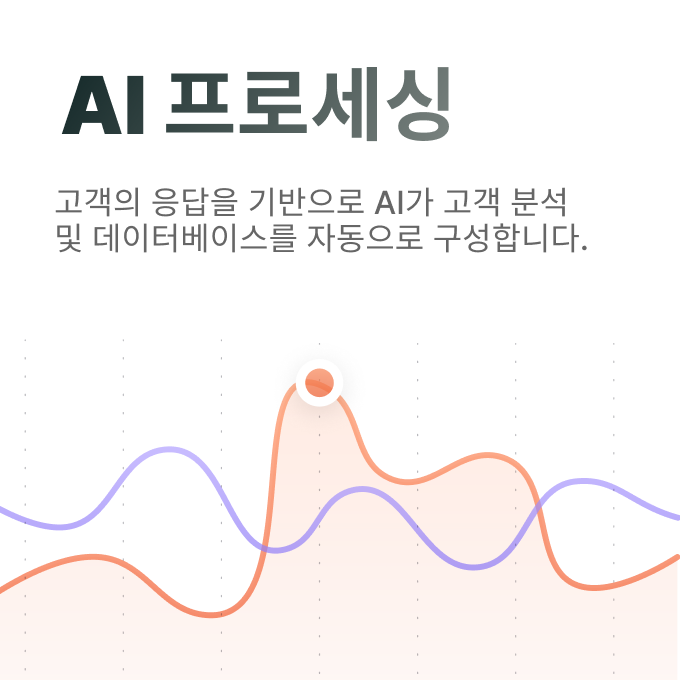
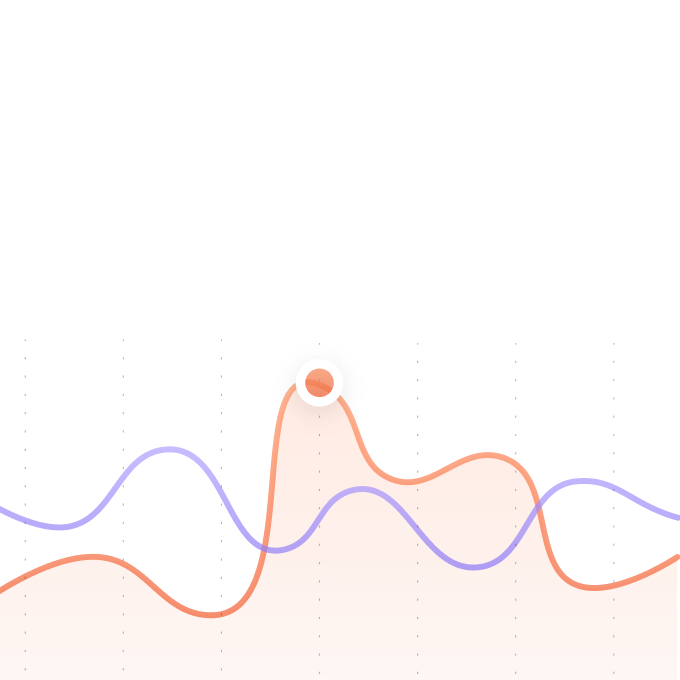
.

Changed region(s): [[0.0618, 0.2779, 0.8647, 0.3706], [0.2471, 0.0926, 0.6794, 0.2162], [0.0926, 0.0926, 0.2162, 0.2162]]

diff --git a/apps/forms/app/(site)/(affiliate)/poc/page.tsx b/apps/forms/app/(site)/(affiliate)/poc/page.tsx
@@ -8,6 +8,8 @@ import React from "react";
 import { CaretRightIcon, CheckIcon } from "@radix-ui/react-icons";
 import { Hero } from "./hero";
 import { TopBottomFadingGradientOverlay } from "./gradient";
+import { DemoSubCard } from "./demo";
+import clsx from "clsx";
 
 const demo_1_categories = [
   "이벤트",
@@ -16,14 +18,6 @@ const demo_1_categories = [
   "패션",
   "미술",
   "사이버펑크",
-];
-
-const demo_2_categories = [
-  "캠페인 매니저",
-  "대용량 트래픽",
-  "티켓/인벤토리",
-  "고객관리",
-  "개발자",
 ];
 
 const imagesDemo1 = {
@@ -38,38 +32,148 @@ const imagesDemo1 = {
     "/affiliate/poc/images/demo-1-images/formbuilder-section-cyberfunk-image.png",
 };
 
-const imagesDemo2 = {
-  "캠페인 매니저": [
-    "/affiliate/poc/images/demo-2-images/campaign-image-main.png",
-    "/affiliate/poc/images/demo-2-images/campaign-image-sub1.png",
-    "/affiliate/poc/images/demo-2-images/campaign-image-sub2.png",
-    "/affiliate/poc/images/demo-2-images/campaign-image-sub3.png",
-  ],
-  "대용량 트래픽": [
-    "/affiliate/poc/images/demo-2-images/traffic-image-main.png",
-    "/affiliate/poc/images/demo-2-images/traffic-image-sub1.png",
-    "/affiliate/poc/images/demo-2-images/traffic-image-sub2.png",
-    "/affiliate/poc/images/demo-2-images/traffic-image-sub3.png",
-  ],
-  "티켓/인벤토리": [
-    "/affiliate/poc/images/demo-2-images/ticketing-image-main.png",
-    "/affiliate/poc/images/demo-2-images/ticketing-image-sub1.png",
-    "/affiliate/poc/images/demo-2-images/ticketing-image-sub2.png",
-    "/affiliate/poc/images/demo-2-images/ticketing-image-sub3.png",
-  ],
-  고객관리: [
-    "/affiliate/poc/images/demo-2-images/customer-image-main.png",
-    "/affiliate/poc/images/demo-2-images/customer-image-sub1.png",
-    "/affiliate/poc/images/demo-2-images/customer-image-sub2.png",
-    "/affiliate/poc/images/demo-2-images/customer-image-sub3.png",
-  ],
+const demo_2_categories = [
+  "캠페인 매니저",
+  "대용량 트래픽",
+  "티켓/인벤토리",
+  "고객관리",
+  "개발자",
+];
 
-  개발자: [
-    "/affiliate/poc/images/demo-2-images/developer-image-main.png",
-    "/affiliate/poc/images/demo-2-images/developer-image-sub1.png",
-    "/affiliate/poc/images/demo-2-images/developer-image-sub2.png",
-    "/affiliate/poc/images/demo-2-images/developer-image-sub3.png",
-  ],
+interface DemoCardData {
+  artwork: string;
+  title: string;
+  description: string;
+}
+
+const imagesDemo2: Record<
+  string,
+  {
+    main: { artwork: string };
+    subs: DemoCardData[];
+  }
+> = {
+  "캠페인 매니저": {
+    main: {
+      artwork: "/affiliate/poc/images/demo-2-images/campaign-image-main.png",
+    },
+    subs: [
+      {
+        title: "멀티 캠페인",
+        description:
+          "여러 폼을 생성할 필요없이, 하나의 폼으로 여러 채널에서 캠페인을 동시에 관리할 수 있습니다.",
+        artwork: "/affiliate/poc/images/demo-2-images/campaign-image-sub1.png",
+      },
+      {
+        title: "스케줄링",
+        description: "캠페인 별로 스케줄을 설정하여 관리할 수 있습니다.",
+        artwork: "/affiliate/poc/images/demo-2-images/campaign-image-sub2.png",
+      },
+      {
+        title: "대기열 알림",
+        description:
+          "사용자가 대기열에 등록하여 접수가 시작될 때 알림을 받을 수 있습니다.",
+        artwork: "/affiliate/poc/images/demo-2-images/campaign-image-sub3.png",
+      },
+    ],
+  },
+  "대용량 트래픽": {
+    main: {
+      artwork: "/affiliate/poc/images/demo-2-images/traffic-image-main.png",
+    },
+    subs: [
+      {
+        title: "시뮬레이터",
+        description:
+          "시스템이 작동하지 않을까봐 걱정되시나요? 시뮬레이터를 통해 사전에 미리 대용량 트래픽을 테스트 해볼 수 있습니다.",
+        artwork: "/affiliate/poc/images/demo-2-images/traffic-image-sub1.png",
+      },
+      {
+        title: "기술 지원",
+        description:
+          "콘서트, 마라톤 접수 등 전국에서 신청이 몰리는 이벤트의 경우, 기술팀의 지원을 받아 차질없는 진행을 도와드립니다. *별도 문의",
+        artwork: "/affiliate/poc/images/demo-2-images/traffic-image-sub2.png",
+      },
+      {
+        title: "개별 큐 서버",
+        description:
+          "최대 동시 접속 10만명까지 대용량 이벤트의 경우 별도의 Redis 큐 서버를 사용하실 수 있습니다.",
+        artwork: "/affiliate/poc/images/demo-2-images/traffic-image-sub3.png",
+      },
+    ],
+  },
+  "티켓/인벤토리": {
+    main: {
+      artwork: "/affiliate/poc/images/demo-2-images/ticketing-image-main.png",
+    },
+    subs: [
+      {
+        title: "로직 블록과 함께 유연한 구현",
+        description: "로직 블록과 함께 복잡한 인벤토리 로직 구현도 가능합니다.",
+        artwork: "/affiliate/poc/images/demo-2-images/ticketing-image-sub1.png",
+      },
+      {
+        title: "재입고 알림",
+        description:
+          "티켓 재고가 소진되었을 경우, 고객이 재입고 알림을 신청할 수 있습니다.",
+        artwork: "/affiliate/poc/images/demo-2-images/ticketing-image-sub2.png",
+      },
+      {
+        title: "결제",
+        description:
+          "TossPayments나 Stripe를 통해 전세계에서 네이티브한 결제 경험을 제공해 보세요.",
+        artwork: "/affiliate/poc/images/demo-2-images/ticketing-image-sub3.png",
+      },
+    ],
+  },
+  고객관리: {
+    main: {
+      artwork: "/affiliate/poc/images/demo-2-images/customer-image-main.png",
+    },
+    subs: [
+      {
+        title: "확정 문자 발송",
+        description: "폼 신청이 접수된 고객에게 확정 문자를 보낼 수 있습니다.",
+        artwork: "/affiliate/poc/images/demo-2-images/customer-image-sub1.png",
+      },
+      {
+        title: "문의 응대",
+        description: "폼에 관한 고객들의 문의들을 확인하고 답할 수 있습니다.",
+        artwork: "/affiliate/poc/images/demo-2-images/customer-image-sub2.png",
+      },
+      {
+        title: "AI 프로세싱",
+        description:
+          "고객의 응답을 기반으로 AI가 고객 분석및 데이터베이스를 자동으로 구성합니다.",
+        artwork: "/affiliate/poc/images/demo-2-images/customer-image-sub3.png",
+      },
+    ],
+  },
+  개발자: {
+    main: {
+      artwork: "/affiliate/poc/images/demo-2-images/developer-image-main.png",
+    },
+    subs: [
+      {
+        title: "철저한 개발자를 위한 설계",
+        description:
+          "Grida Forms는 바닥부터 개발자를 위한 Headless Forms로 설계 되었습니다. 무엇을 상상하든 구현 가능합니다.",
+        artwork: "/affiliate/poc/images/demo-2-images/developer-image-sub1.png",
+      },
+      {
+        title: "고객 DB 연동",
+        description:
+          "SSO를 통한 고객 통합 로그인 뿐만 아니라, SQL을 통한 직접적인 쿼리 및 Wrapper를 연동할 수 있습니다.",
+        artwork: "/affiliate/poc/images/demo-2-images/developer-image-sub2.png",
+      },
+      {
+        title: "SDK",
+        description:
+          "이미 개발팀이 있으신가요? 마케터를 위한 폼 빌더로 사용하고. 앱에 유동적으로 연동하여 사용할수 있습니다.",
+        artwork: "/affiliate/poc/images/demo-2-images/developer-image-sub3.png",
+      },
+    ],
+  },
 };
 
 export default function PartnerPOC() {
@@ -171,38 +275,30 @@ export default function PartnerPOC() {
                   <TabsContent key={category} value={category}>
                     <div className="flex flex-col gap-5 px-8 sm:px-24">
                       <Image
-                        className="md:h-[776px] w-full rounded-xl shadow-xl overflow-hidden object-cover"
-                        //@ts-ignore
-                        src={imagesDemo2[category][0]}
+                        className="border md:h-[776px] w-full rounded-xl shadow-lg overflow-hidden object-cover"
+                        src={imagesDemo2[category].main.artwork}
                         alt={`${category}-main`}
                         width={1400}
                         height={776}
                       />
+
                       <div className="flex flex-col md:grid md:grid-cols-4 gap-5">
-                        <Image
-                          className="md:h-[340px] w-full md:col-start-1 md:col-span-2 rounded-xl shadow-xl overflow-hidden object-cover"
-                          //@ts-ignore
-                          src={imagesDemo2[category][1]}
-                          alt={`${category}-sub1`}
-                          width={680}
-                          height={340}
-                        />
-                        <Image
-                          className=" md:h-[340px] w-full rounded-xl shadow-xl overflow-hidden object-cover"
-                          //@ts-ignore
-                          src={imagesDemo2[category][2]}
-                          alt={`${category}-sub2`}
-                          width={340}
-                          height={340}
-                        />
-                        <Image
-                          className="md:h-[340px] w-full rounded-xl shadow-xl overflow-hidden object-cover"
-                          //@ts-ignore
-                          src={imagesDemo2[category][3]}
-                          alt={`${category}-sub3`}
-                          width={340}
-                          height={340}
-                        />
+                        {imagesDemo2[category].subs.map((sub, i) => {
+                          return (
+                            <DemoSubCard
+                              key={i}
+                              artwork={sub.artwork}
+                              alt={`${category}-sub2`}
+                              text1={sub.title}
+                              text2={sub.description}
+                              className={clsx(
+                                "relative rounded-xl shadow-lg w-full border overflow-hidden",
+                                "md:h-[340px]",
+                                i === 0 ? "md:col-start-1 md:col-span-2" : ""
+                              )}
+                            />
+                          );
+                        })}
                       </div>
                     </div>
                   </TabsContent>

diff --git a/apps/forms/app/(site)/(affiliate)/poc/demo.tsx b/apps/forms/app/(site)/(affiliate)/poc/demo.tsx
@@ -1,0 +1,35 @@
+"use client";
+
+import Image from "next/image";
+import React from "react";
+
+export function DemoSubCard({
+  artwork,
+  alt,
+  text1,
+  text2,
+  className,
+}: {
+  artwork: string;
+  alt: string;
+  text1: string;
+  text2: string;
+  className?: string;
+}) {
+  return (
+    // md:h-[340px] w-full md:col-start-1 md:col-span-2
+    <div className={className}>
+      <div className="flex flex-col gap-3 p-8">
+        <h6 className="text-4xl font-bold">{text1}</h6>
+        <span className="max-w-sm text-muted-foreground">{text2}</span>
+      </div>
+      <Image
+        className="absolute inset-0 overflow-hidden object-right-bottom object-cover w-full h-full -z-10"
+        src={artwork}
+        alt={alt}
+        width={500}
+        height={500}
+      />
+    </div>
+  );
+}
